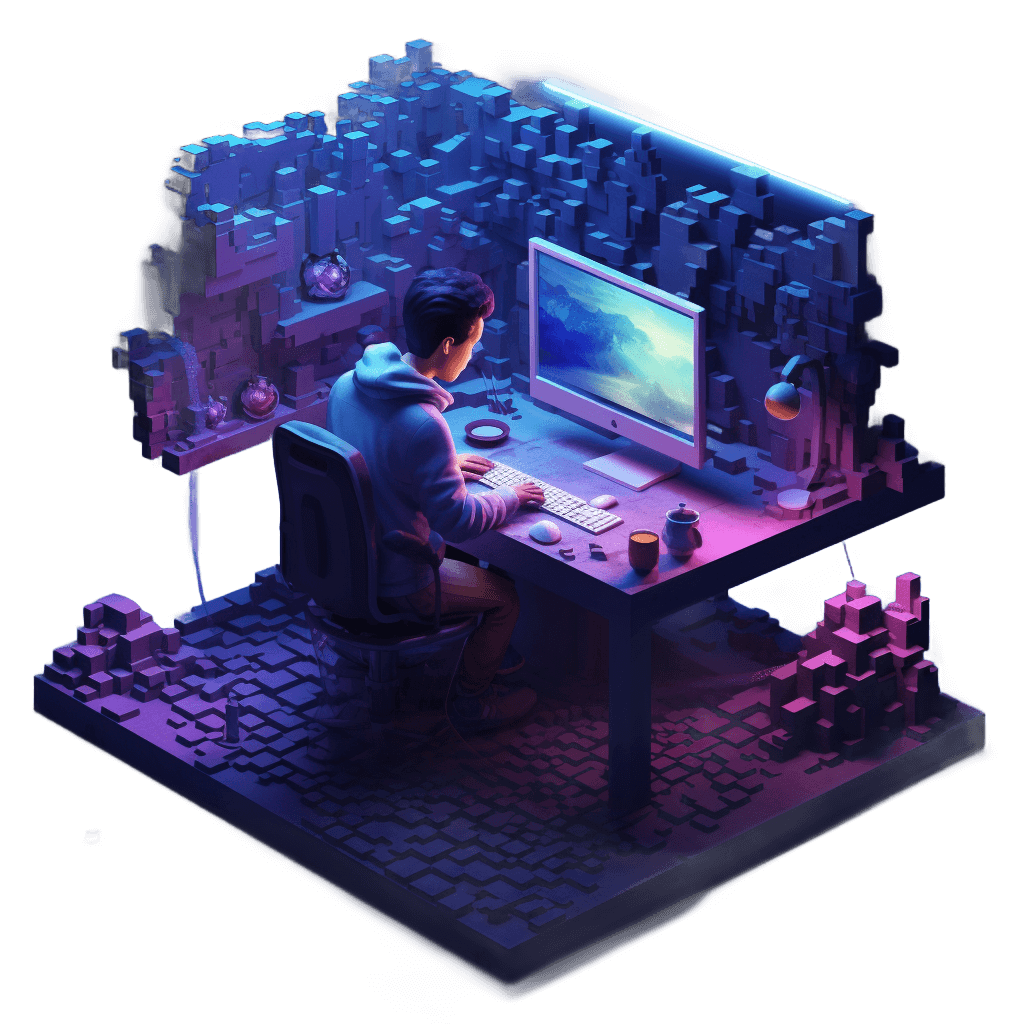
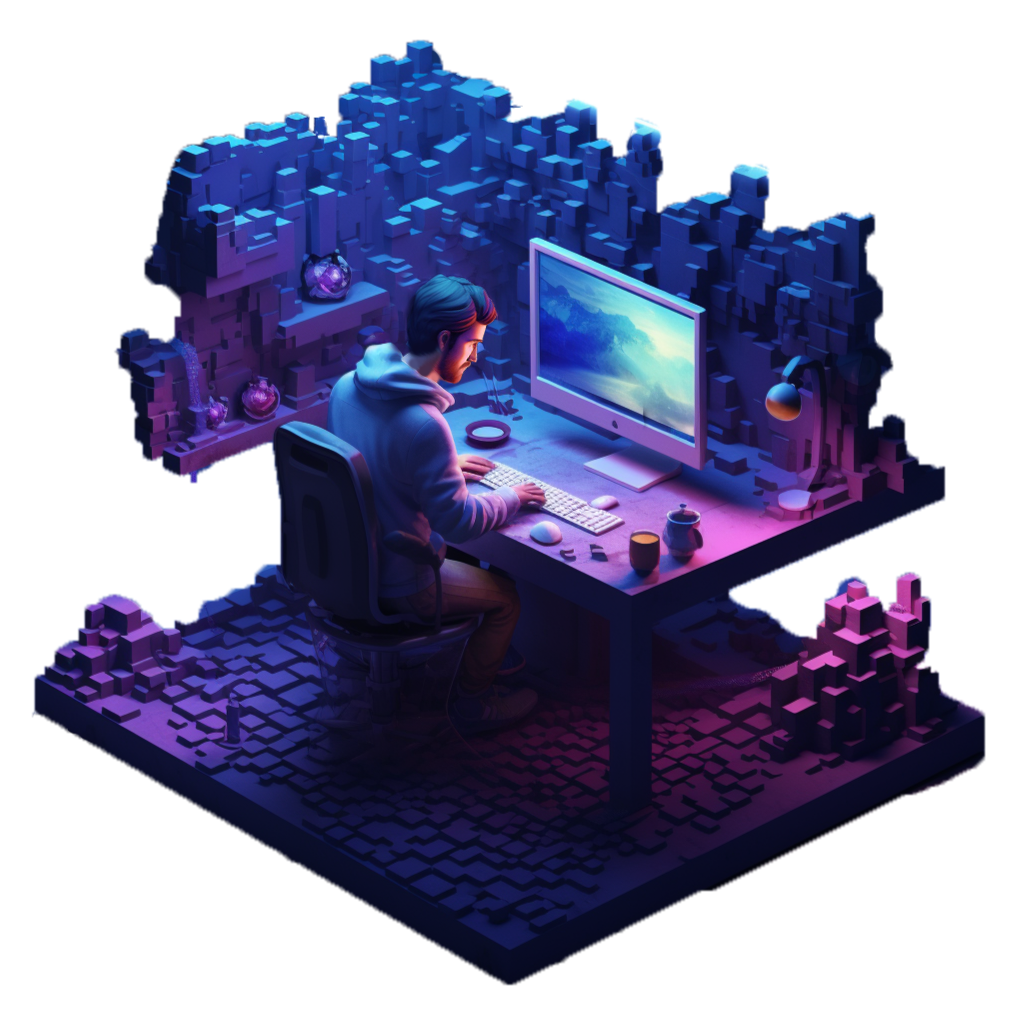
tuesday work

diff --git a/about.html b/about.html
@@ -37,7 +37,7 @@
                 
           <p>Home</p></a>
 
-        <a class="header-link" href="#projects-section">
+        <a class="header-link" href="projects.html">
             <svg class="projects-svg" xmlns="http://www.w3.org/2000/svg" viewBox="0 0 24 24"><path d="M4 5V19H20V7H11.5858L9.58579 5H4ZM12.4142 5H21C21.5523 5 22 5.44772 22 6V20C22 20.5523 21.5523 21 21 21H3C2.44772 21 2 20.5523 2 20V4C2 3.44772 2.44772 3 3 3H10.4142L12.4142 5Z""></path></svg>
                 
           <p>Projects</p></a>
@@ -105,7 +105,7 @@
             }
         </script> -->
     </div>      
-</header>
+  </header>
 
     <div data-scroll-container class="background">
         <div id="particles-js"></div>

diff --git a/scss/style.scss b/scss/style.scss
@@ -15,6 +15,7 @@
 // PAGES
 @import './pages/home';
 @import './pages/about';
+@import './pages/projects';
  
 
 // DUPLICATE PROPERTIES FUNCTION